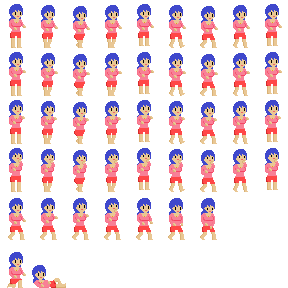
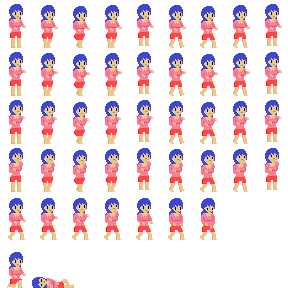
Add creature's dead image

Changed region(s): [[0.0938, 0.9062, 0.25, 1.0]]

diff --git a/server/robot.js b/server/robot.js
@@ -4,15 +4,24 @@ class Robot extends Creature {
     constructor(x, y, type, bullets, map) {
         super(x, y, type, bullets, map);
 
-        this.action = 0;
-        this.timer = 0;
+        this.actionLR = 0;
+        this.actionUD = 0;
+        this.timerLR = 0;
+        this.timerUD = 0;
     }
 
     ai() {
-        if (this.action == 1) {
+        if (this.actionUD == 1) {
+            this.isUpPress = true;
+        }
+        else if (this.actionUD == 2) {
+            this.isDownPress = true;
+        }
+
+        if (this.actionLR == 1) {
             this.isLeftPress = true;
         }
-        else if (this.action == 2) {
+        else if (this.actionLR == 2) {
             this.isRightPress = true;
         }
 
@@ -20,11 +29,29 @@ class Robot extends Creature {
             this.isJumpPress = true;
         }
 
-        this.timer--;
+        this.timerUD--;
+        this.timerLR--;
 
-        if (this.timer <= 0) {
-            this.timer = Math.floor(Math.random() * 100);
-            this.action = Math.floor(Math.random() * 3);
+        if (this.timerUD <= 0) {
+            let rv = Math.random();
+            if (rv <= 0.8) {
+                this.actionUD = 0;
+                this.timerUD = Math.floor(Math.random() * 100);
+            }
+            else if (rv <= 0.9) {
+                this.actionUD = 1;
+                this.timerUD = Math.floor(Math.random() * 70);
+            }
+            else {
+                this.actionUD = 2;
+                this.timerUD = Math.floor(Math.random() * 100);
+            }
+
+            this.isUpPress = this.isDownPress = false;
+        }
+        if (this.timerLR <= 0) {
+            this.timerLR = Math.floor(Math.random() * 100);
+            this.actionLR = Math.floor(Math.random() * 3);
 
             this.isLeftPress = this.isRightPress = false;
         }

diff --git a/client/creature.js b/client/creature.js
@@ -48,19 +48,24 @@ class Creature {
             x -= 32;
         }
 
-        if (this.state != "JUMP") {
-            this.context.drawImage(this.image, mRun * this.w, mUp * this.h, this.w, this.h, x, y, this.w, this.h);
+        if (this.state == "DEAD") {
+            this.context.drawImage(this.image, 1 * this.w, 5 * this.h, 42, this.h, x, y, 42, this.h);
         }
         else {
-            if (mDown == 0) {
-                this.context.drawImage(this.image, mUp * this.w, 4 * this.h, this.w, this.h, x, y, this.w, this.h);
+            if (this.state != "JUMP") {
+                this.context.drawImage(this.image, mRun * this.w, mUp * this.h, this.w, this.h, x, y, this.w, this.h);
             }
             else {
-                this.context.drawImage(this.image, (mDown + 3) * this.w, 4 * this.h, this.w, this.h, x, y, this.w, this.h);
+                if (mDown == 0) {
+                    this.context.drawImage(this.image, mUp * this.w, 4 * this.h, this.w, this.h, x, y, this.w, this.h);
+                }
+                else {
+                    this.context.drawImage(this.image, (mDown + 3) * this.w, 4 * this.h, this.w, this.h, x, y, this.w, this.h);
+                }
             }
-        }
 
-        this.weapon.print(x, y, this.state, mRun, mUp, mDown);
+            this.weapon.print(x, y, this.state, mRun, mUp, mDown);
+        }
 
         // Restore the canvas
         this.context.restore();

diff --git a/server/creature.js b/server/creature.js
@@ -89,7 +89,7 @@ class Creature {
             if (this.x - this.w / 2 <= this.bullets[i].x && this.bullets[i].x <= this.x + this.w / 2) {
                 if (this.y - this.h / 2 <= this.bullets[i].y && this.bullets[i].y <= this.y + this.h / 2) {
                     if (this.id != this.bullets[i].id) {
-                        this.isAlive = false;
+                        this.state = "DEAD";
                         this.bullets[i].isAlive = false;
                         return;
                     }
@@ -110,8 +110,8 @@ class Creature {
         this.gravity();
         this.checkBulletHit();
 
-        // Stop moving when player is sniping
-        if (this.state == "SNIPE" || !this.isAlive) {
+        // Stop moving when player is dead or sniping
+        if (this.state == "DEAD" || this.state == "SNIPE") {
             return;
         }
 
